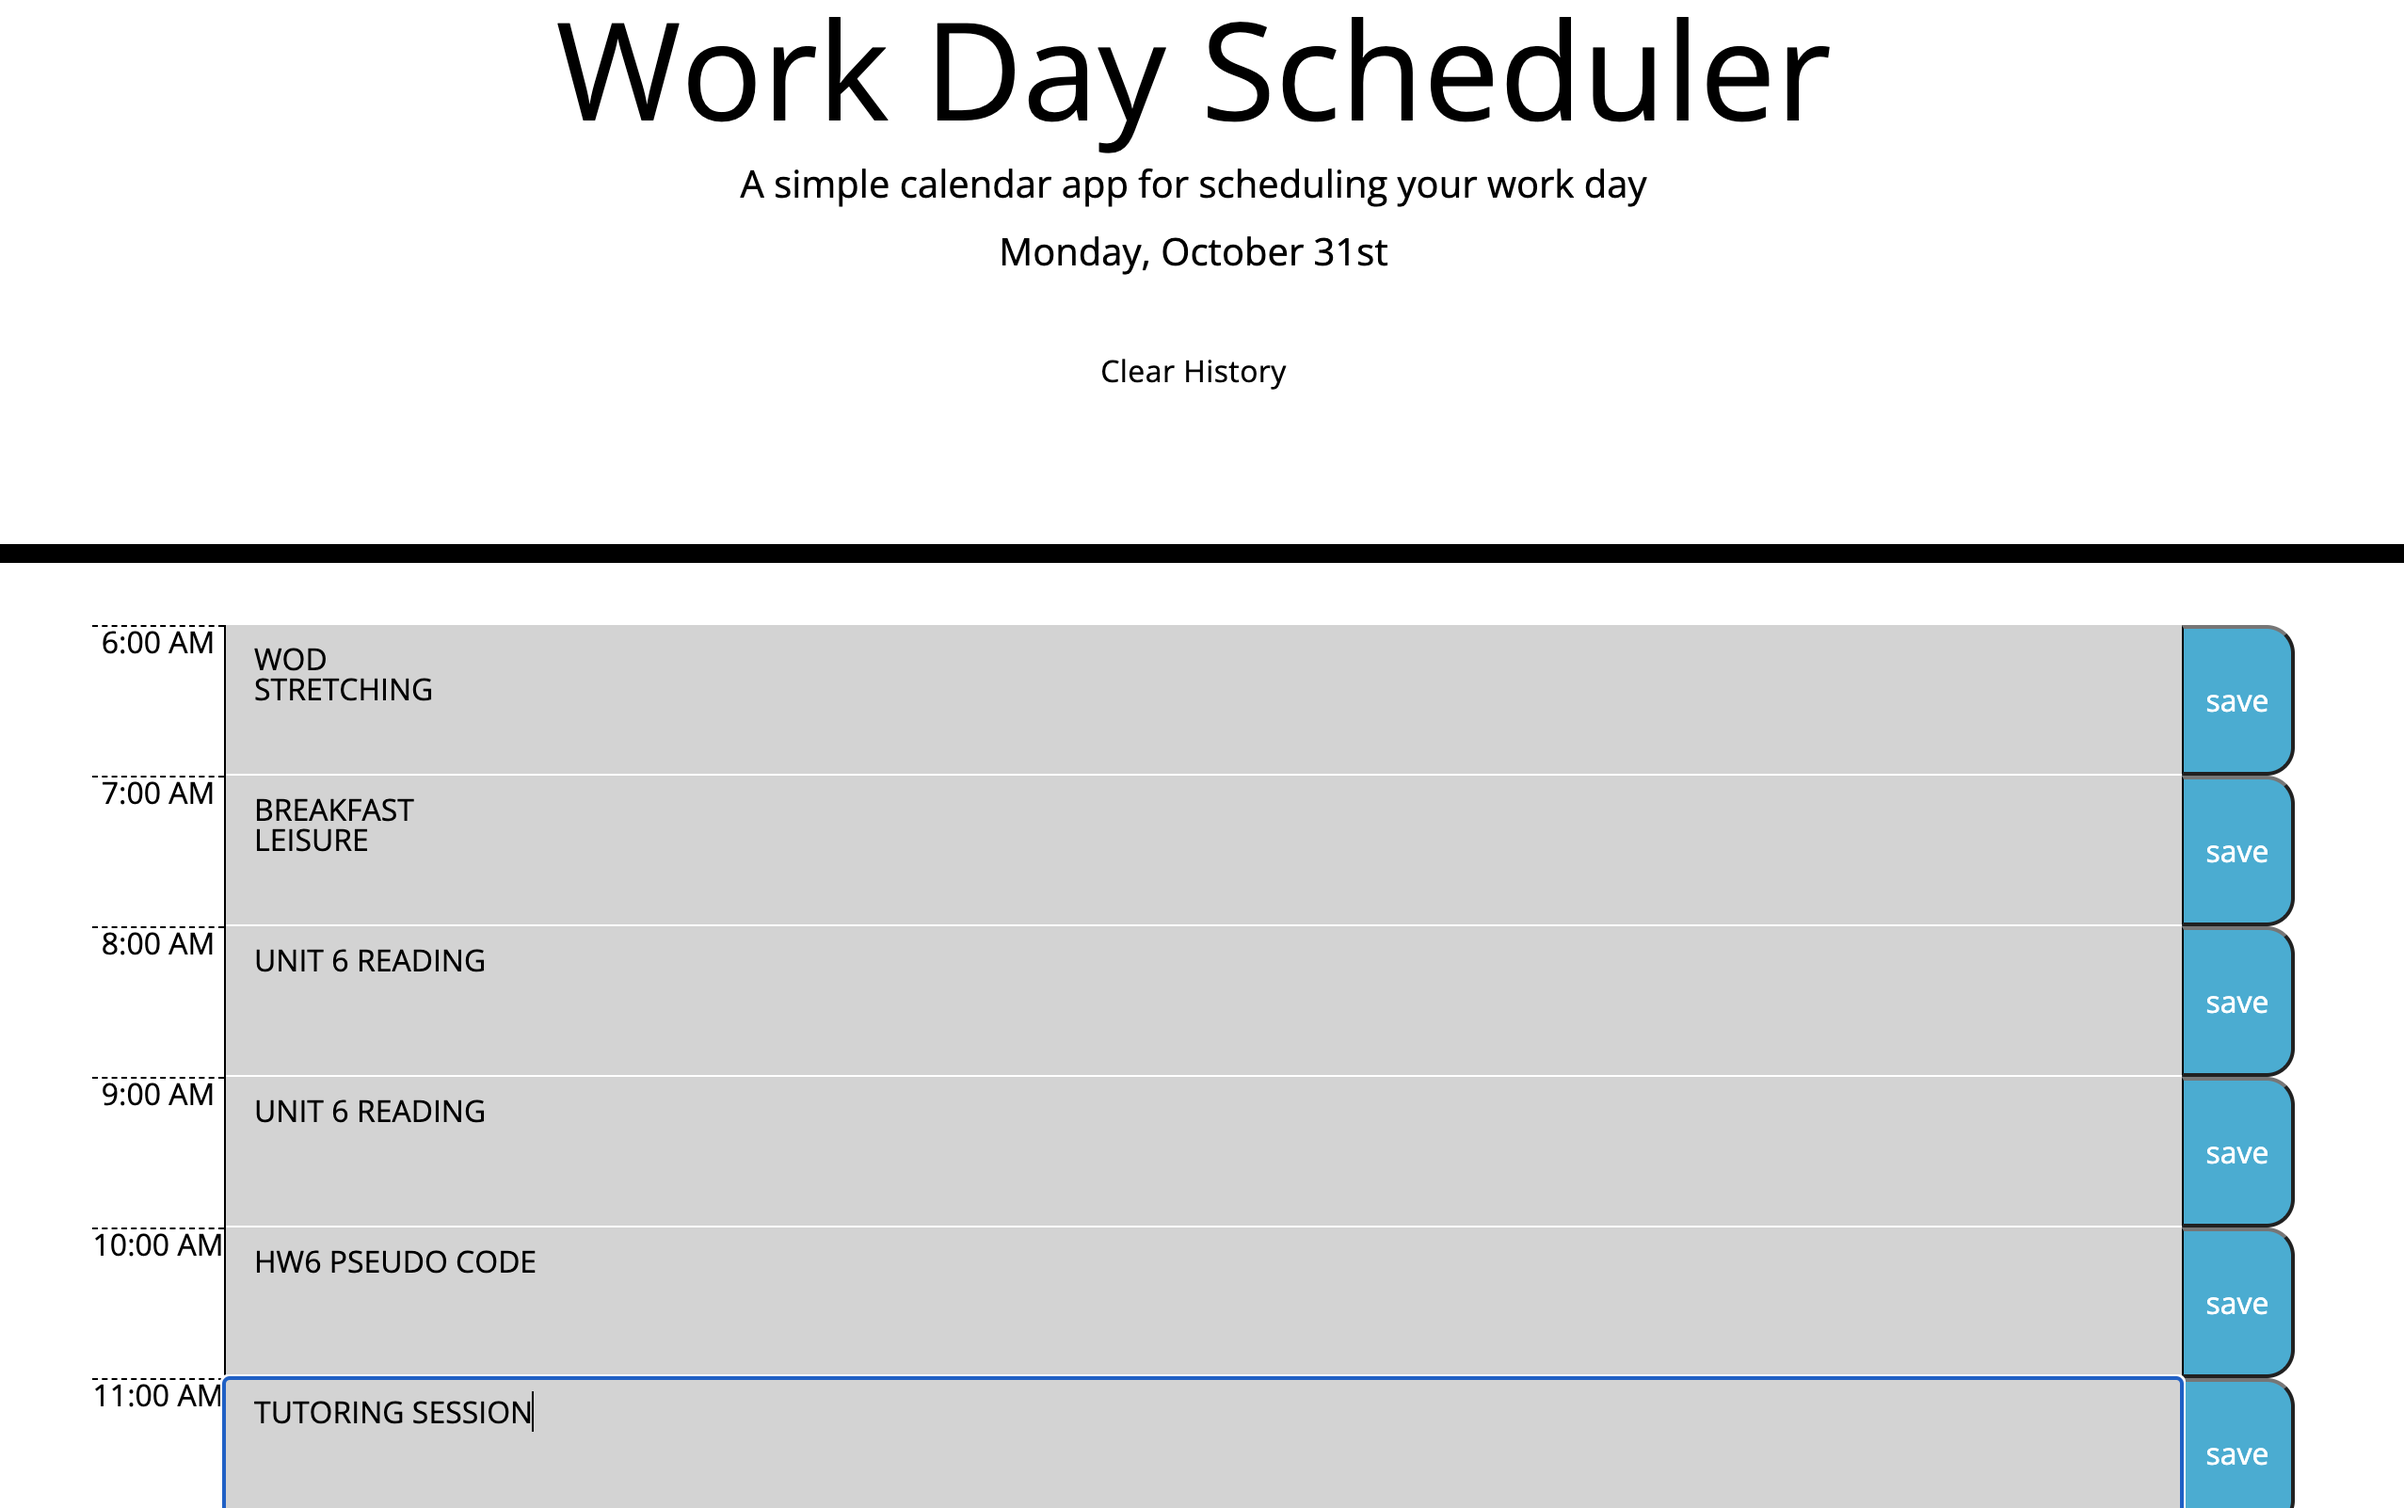
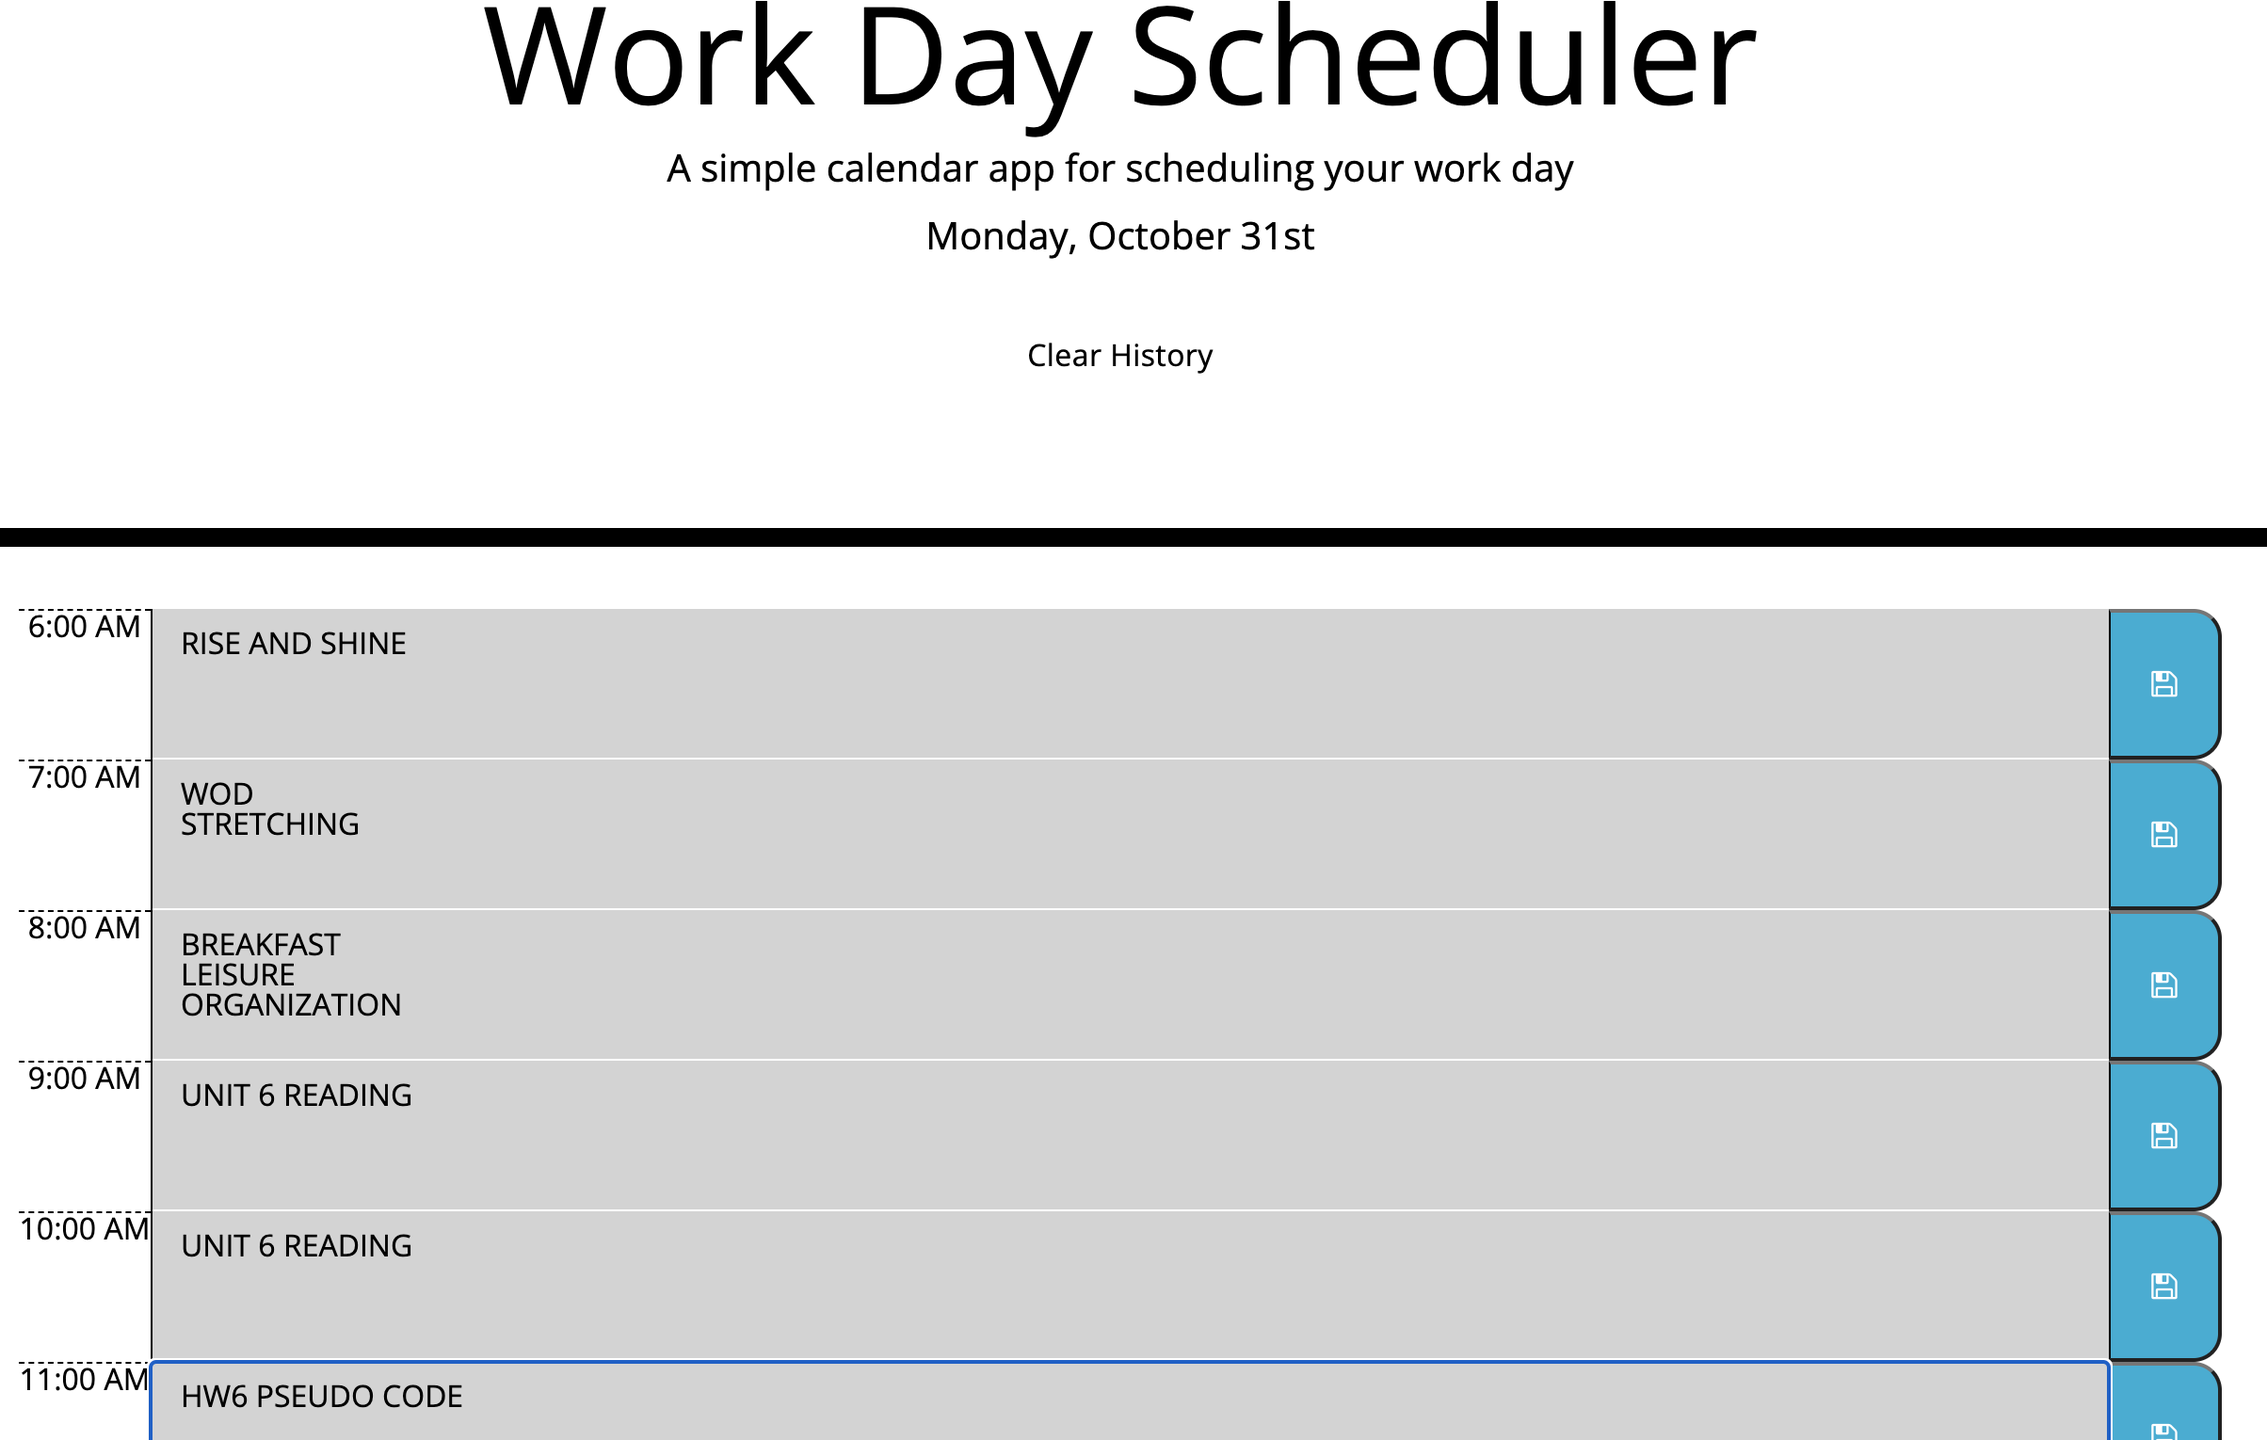
Updates 'project screenshot'

Changed region(s): [[0.0, 0.3379, 1.0, 1.0], [0.218, 0.0, 0.7787, 0.1843], [0.4672, 0.215, 0.5295, 0.2765]]

diff --git a/index.html b/index.html
@@ -30,56 +30,56 @@
   <main>
     <section class="time-block" data-hour="6:00 AM">
       <div class="row">
-        <span class="hour" class="col-sm">6:00 AM</span>
+        <span class="hour" class="col-sm">6:30 AM</span>
         <textarea class="col-sm description"></textarea>
         <button class="saveBtn"><i class="fa fa-save"></i></button>
       </div>
     </section>
     <section class="time-block" data-hour="7:00 AM">
       <div class="row">
-        <span class="hour" class="col-sm">7:00 AM</span>
+        <span class="hour" class="col-sm">7:30 AM</span>
         <textarea class="col-sm description"></textarea>
         <button class="saveBtn"><i class="fa fa-save"></i></button>
       </div>
     </section>
     <section class="time-block" data-hour="8:00 AM">
       <div class="row">
-        <span class="hour" class="col-sm">8:00 AM</span>
+        <span class="hour" class="col-sm">8:30 AM</span>
         <textarea class="col-sm description"></textarea>
         <button class="saveBtn"><i class="fa fa-save"></i></button>
       </div>
     </section>
     <section class="time-block" data-hour="9:00 AM">
       <div class="row">
-        <span class="hour" class="col-sm">9:00 AM</span>
+        <span class="hour" class="col-sm">9:30 AM</span>
         <textarea class="col-sm description"></textarea>
         <button class="saveBtn"><i class="fa fa-save"></i></button>
       </div>
     </section>
     <section class="time-block" data-hour="10:00 AM">
       <div class="row">
-        <span class="hour" class="col-sm">10:00 AM</span>
+        <span class="hour" class="col-sm">10:30 AM</span>
         <textarea class="col-sm description"></textarea>
         <button class="saveBtn"><i class="fa fa-save"></i></button>
       </div>
     </section>
     <section class="time-block" data-hour="11:00 AM">
       <div class="row">
-        <span class="hour" class="col-sm">11:00 AM</span>
+        <span class="hour" class="col-sm">11:30 AM</span>
         <textarea class="col-sm description"></textarea>
         <button class="saveBtn"><i class="fa fa-save"></i></button>
       </div>
     </section>
     <section class="time-block" data-hour="12:00 PM">
       <div class="row">
-        <span class="hour" class="col-sm">12:00 PM</span>
+        <span class="hour" class="col-sm">12:30 PM</span>
         <textarea class="col-sm description"></textarea>
         <button class="saveBtn"><i class="fa fa-save"></i></button>
       </div>
     </section>
     <section class="time-block" data-hour="13:00 PM">
       <div class="row">
-        <span class="hour" class="col-sm">1:00 PM</span>
+        <span class="hour" class="col-sm">1:30 PM</span>
         <textarea class="col-sm description"></textarea>
         <button class="saveBtn"><i class="fa fa-save"></i></button>
       </div>
@@ -87,7 +87,7 @@
     </section>
     <section class="time-block" data-hour="14:00 PM">
       <div class="row">
-        <span class="hour" class="col-sm">2:00 PM</span>
+        <span class="hour" class="col-sm">2:30 PM</span>
         <textarea class="col-sm description"></textarea>
         <button class="saveBtn"><i class="fa fa-save"></i></button>
       </div>
@@ -95,7 +95,7 @@
     </section>
     <section class="time-block" data-hour="15:00 PM">
       <div class="row">
-        <span class="hour" class="col-sm">3:00 PM</span>
+        <span class="hour" class="col-sm">3:30 PM</span>
         <textarea class="col-sm description"></textarea>
         <button class="saveBtn"><i class="fa fa-save"></i></button>
       </div>
@@ -103,7 +103,7 @@
     </section>
     <section class="time-block" data-hour="16:00 PM">
       <div class="row">
-        <span class="hour" class="col-sm">4:00 PM</span>
+        <span class="hour" class="col-sm">4:30 PM</span>
         <textarea class="col-sm description"></textarea>
         <button class="saveBtn"><i class="fa fa-save"></i></button>
       </div>
@@ -111,7 +111,7 @@
     </section>
     <section class="time-block" data-hour="17:00 PM">
       <div class="row">
-        <span class="hour" class="col-sm">5:00 PM</span>
+        <span class="hour" class="col-sm">5:30 PM</span>
         <textarea class="col-sm description"></textarea>
         <button class="saveBtn"><i class="fa fa-save"></i></button>
       </div>
@@ -119,7 +119,7 @@
     </section>
     <section class="time-block" data-hour="18:00 PM">
       <div class="row">
-        <span class="hour" class="col-sm">6:00 PM</span>
+        <span class="hour" class="col-sm">6:30 PM</span>
         <textarea class="col-sm description"></textarea>
         <button class="saveBtn"><i class="fa fa-save"></i></button>
       </div>
@@ -127,7 +127,7 @@
     </section>
     <section class="time-block" data-hour="7:00 PM">
       <div class="row">
-        <span class="hour" class="col-sm">7:00 PM</span>
+        <span class="hour" class="col-sm">7:30 PM</span>
         <textarea class="col-sm description"></textarea>
         <button class="saveBtn"><i class="fa fa-save"></i></button>
       </div>
@@ -135,7 +135,7 @@
     </section>
     <section class="time-block" data-hour="20:00 PM">
       <div class="row">
-        <span class="hour" class="col-sm">8:00 PM</span>
+        <span class="hour" class="col-sm">8:30 PM</span>
         <textarea class="col-sm description"></textarea>
         <button class="saveBtn"><i class="fa fa-save"></i></button>
       </div>
@@ -143,15 +143,15 @@
     </section>
     <section class="time-block" data-hour="21:00 PM">
       <div class="row">
-        <span class="hour" class="col-sm">9:00 PM</span>
-        <textarea class="col-sm description"></textarea>
+        <span class="hour" class="col-sm">9:30 PM</span>
+        <textarea class="col-sm descrip3tion"></textarea>
         <button class="saveBtn"><i class="fa fa-save"></i></button>
       </div>
     </section>
     </section>
     <section class="time-block" data-hour="22:00 PM">
       <div class="row">
-        <span class="hour" class="col-sm">10:00 PM</span>
+        <span class="hour" class="col-sm">10:30 PM</span>
         <textarea class="col-sm description"></textarea>
         <button class="saveBtn"><i class="fa fa-save"></i></button>
       </div>
